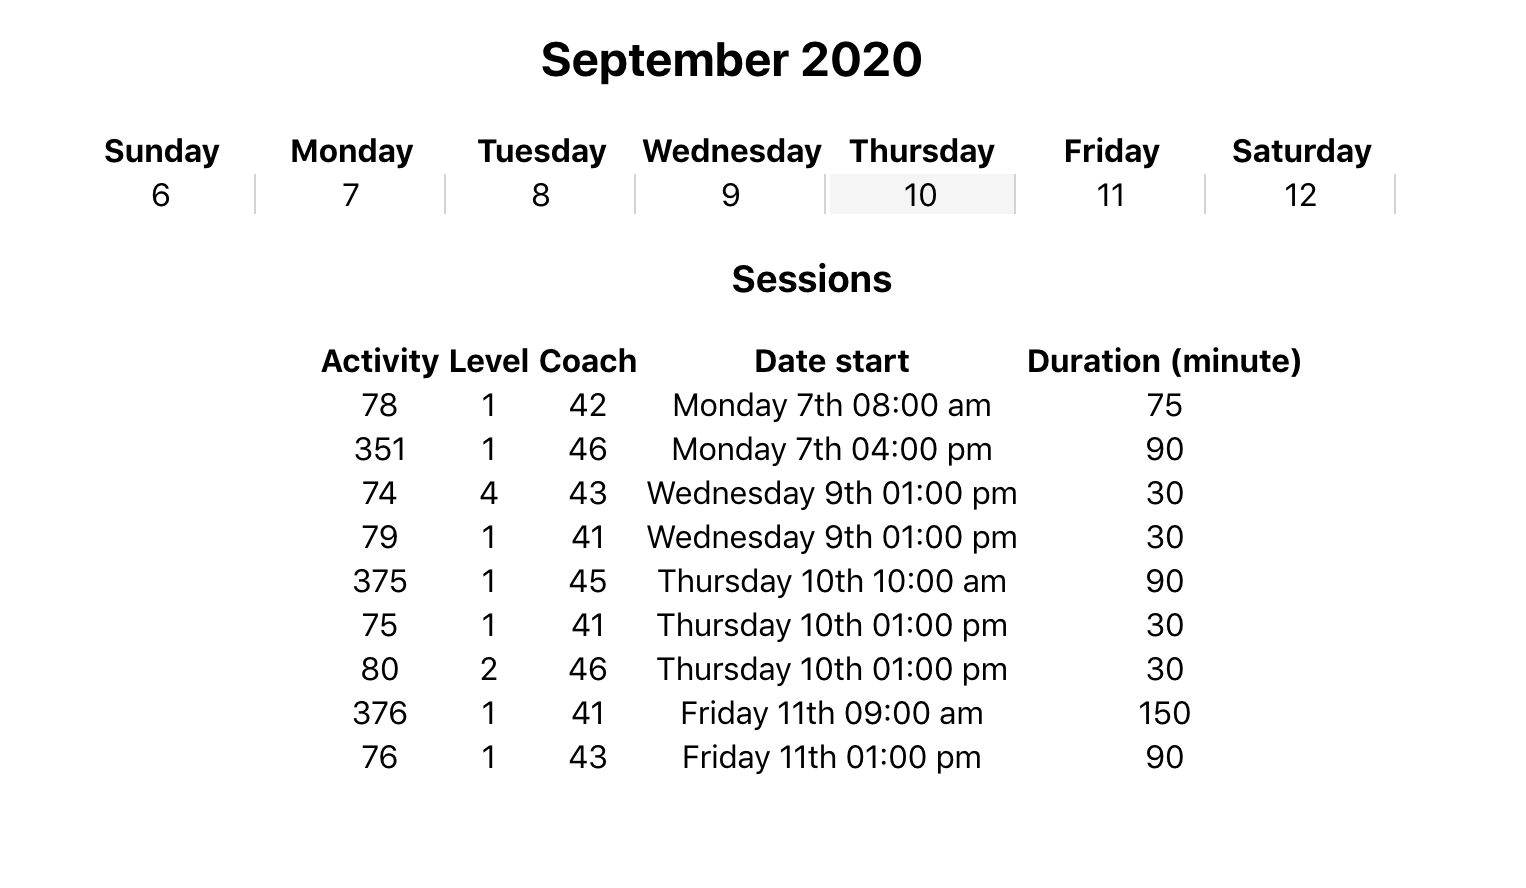
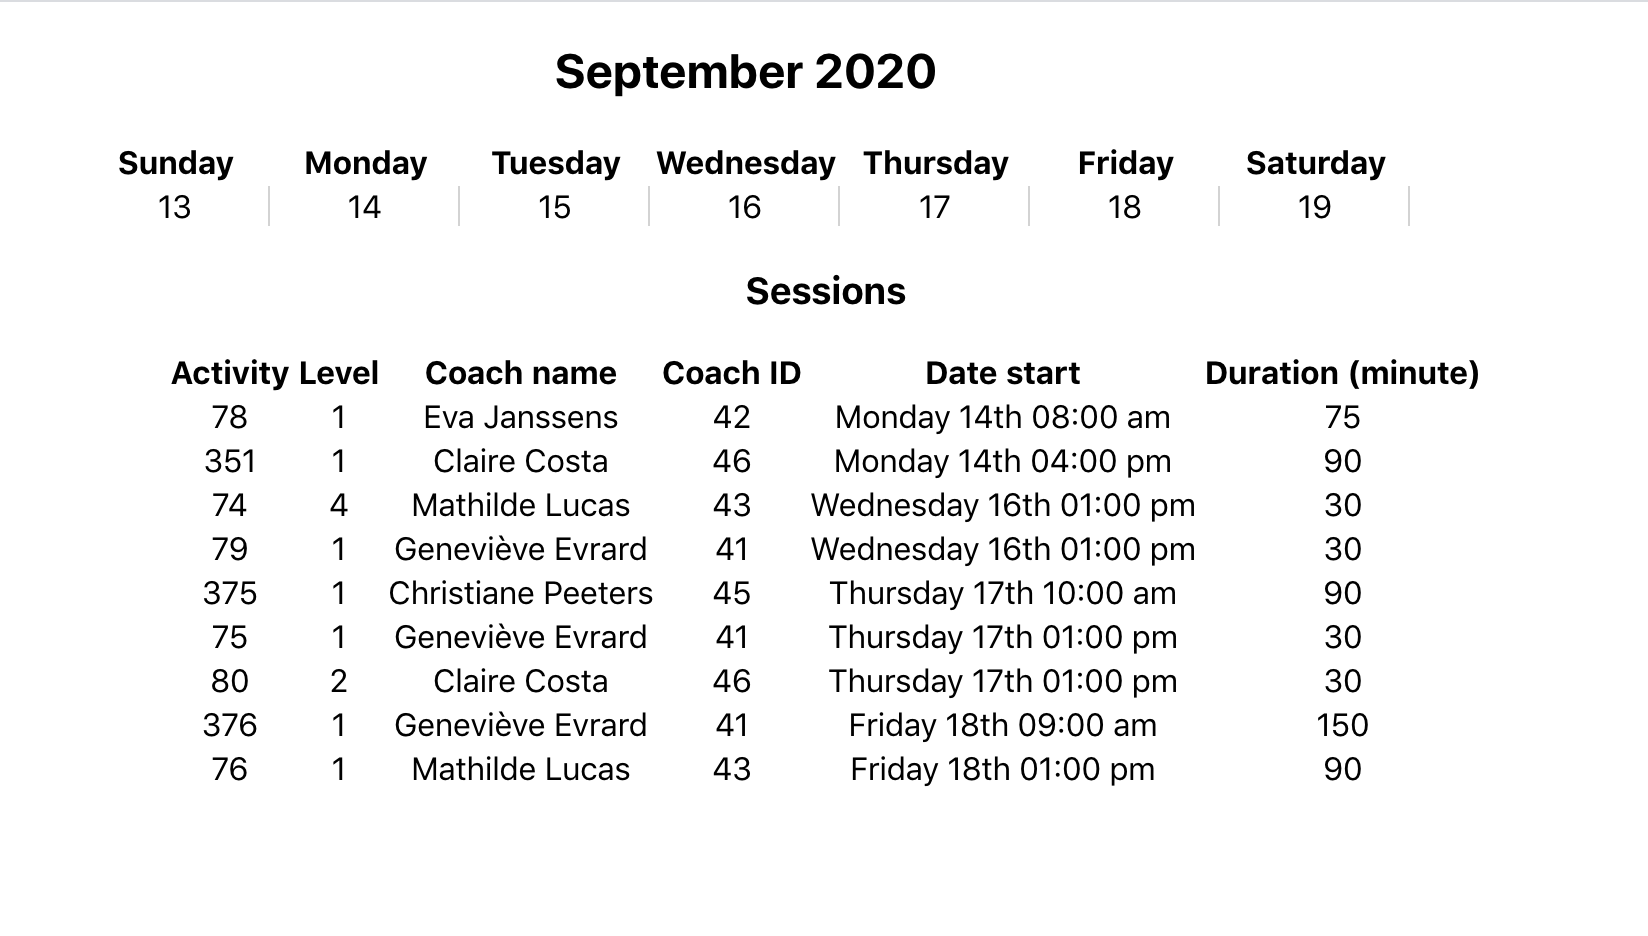
add fetching coach name

diff --git a/src/App.js b/src/App.js
@@ -1,12 +1,191 @@
-import React from 'react';
+import React, {useState, useEffect} from 'react';
 import './App.css';
-import CompanyCalender from "./weekCalendar";
+import moment from "moment";
 
 function App() {
+  const currentDate = moment();
+  const weekStart = currentDate.clone().startOf('week');
+  const weekEnd = currentDate.clone().endOf('week');
+  const minDate = weekStart.format("YYYY-MM-DD")
+  const maxDate = weekEnd.format("YYYY-MM-DD")
 
   return (
     <div className="App">
-      <CompanyCalender/>
+      <Calendar 
+      currentDate = {currentDate}
+      weekStart = {weekStart}
+      weekEnd = {weekEnd}
+      url = {{offer: `https://back.staging.bsport.io/api/v1/offer/?min_date=${minDate}&max_date=${maxDate}&company=6`,
+      coach: "https://back.staging.bsport.io/api/v1/coach/?id__in=",
+      }}
+      />  
+    </div>
+  );
+}
+
+
+
+function Fetcher(url){ 
+  const [error, setError] = useState(null);
+  const [isLoaded, setIsLoaded] = useState(false);
+  const [offers, setOffers] = useState([]);
+  const [coachs, setCoachs] = useState([]);
+
+  useEffect(() => {
+    fetch(url.offer)
+    .then(response => {
+      if (response.ok) {
+        return response.json();
+      } else {
+        throw new Error('Something went wrong ...')
+      }
+    })
+    .then(data => {
+      setOffers(data.results);
+      setIsLoaded(true);
+      const coachId = [...new Set(data.results.map(x => x.coach))];
+      return fetch(url.coach + coachId);
+    })
+    .then(response => {
+      if (response.ok) {
+        return response.json();
+      } else {
+        throw new Error('Something went wrong ...')
+      }
+    })
+    .then(data => {
+      setCoachs(data.results);
+      setIsLoaded(true);
+    })
+    .catch(error => {
+      setError([error]);
+      setIsLoaded(true);
+    })
+  }, []);
+  
+  return ({offers, coachs, error, isLoaded});
+}
+
+const Header = (props) => {
+  return (
+     <div className="week-header">
+          <h2 onClick={() => {props.onChange(null)}}>
+            {props.currentDate.format("MMMM YYYY")}
+          </h2>
+     </div>
+     );
+}
+
+const daysOfWeek = () => {  
+  const days = [0, 1, 2, 3, 4, 5, 6];
+  return (<tr>
+    {days.map(day => <th>{moment.weekdays(day)}</th>)}
+    </tr>
+    );
+}
+
+const Cells = (props) => {
+  const dates = [];
+  let day = props.weekStart;
+  let formattedDate = "";
+  for (let i = 0; i < 7; i++) {
+      formattedDate = moment(day).format("D");
+      const cloneDay = day;
+      let selectedClass = `column cell ${(moment(props.selectedDate).isSame(cloneDay) ? " selected-day " : "")}`;
+      dates.push(
+          <td
+          className={selectedClass}
+          key={day}
+          onClick={() => {props.onChange(cloneDay)}} >
+              <span>{formattedDate}</span>
+          </td>
+      );
+      day = moment(day).add(1, 'day');
+  }
+  return <tr className="body">{dates}</tr>;
+}
+
+
+const ShowSessions = (props) => {
+  return (
+    <div>
+      <ul key={props.selectedDate}>
+        <li><h3>Sessions</h3></li>
+          <table class="center">
+          <thead>
+              <tr>
+                <th>Activity</th>
+                <th>Level</th>
+                <th>Coach name</th>
+                <th>Coach ID</th>
+                <th>Date start</th>
+                <th>Duration (minute)</th>
+              </tr>
+          </thead>
+          <tbody>
+          {props.offer_coach.map(offer => (
+            <tr>
+              <td>{offer.activity}</td>
+              <td>{offer.level}</td>
+              <td>{offer.name}</td>
+              <td>{offer.coach}</td>
+              <td>{moment(offer.date_start).format("dddd Do hh:mm a")}</td>
+              <td>{offer.duration_minute}</td>
+            </tr>
+          ))}
+          </tbody>
+          </table>
+      </ul>
+  </div> 
+  );
+}
+
+const Sessions = (props) => {
+  let {offers, coachs, error, isLoaded} = Fetcher(props.url);
+  if (!offers) {
+    return (<p>No offer yet ...</p>);
+  }
+  if (error) {
+    return (<p>Error in load offers: {error.message}</p>);
+  } 
+  if (!isLoaded) {
+      return (<p>Loading ...</p>);
+  }
+  const filteredOffers = offers.filter(a => moment(a.date_start).diff(props.weekStart,'days')>0 
+    && moment(a.date_start).diff(props.weekEnd,'days')<0);
+  const filteredCoachs = [];
+  coachs.map(item => filteredCoachs.push({id: item.id, name: item.user.name}));
+
+  const offer_coach = filteredOffers.map(x => Object.assign({}, x, filteredCoachs.find(y => y.id === x.coach)));
+  let filteredOfferCoach = offer_coach;
+  if (props.selectedDate!=null) {
+    filteredOfferCoach = offer_coach.filter(a => moment(a.date_start).isSame(props.selectedDate,'days'));
+  }
+
+  return <ShowSessions offer_coach={filteredOfferCoach}/>;
+}
+
+
+const Calendar = (props) => {
+  const [selectedDate, setSelectedDate] = useState(null);
+  const onDayClick = (day) => {
+    setSelectedDate(day);
+  }
+
+  return (
+    <div className="calendar">
+        <div><Header {...props} onChange={onDayClick.bind(this)}/></div> 
+        <table class="center">
+            <thead>
+                {daysOfWeek()}
+            </thead>
+            <tbody>
+              <Cells {...props} 
+              selectedDate={selectedDate}
+              onChange={onDayClick.bind(this)}/>
+            </tbody>
+        </table>       
+        <ul><Sessions {...props} selectedDate={selectedDate}/></ul>     
     </div>
   );
 }

diff --git a/README.md b/README.md
@@ -1,6 +1,8 @@
 # A calendar using REACTJS
 
-The project build a simple calendar shows the activities of a company in the current week. The data are fetched from a true [API](https://back.staging.bsport.io/api/v1/swagger/). By selecting a day on the calendar we can filter the activities in the day.
+The project build a simple calendar shows the offers of a company in the current week. The offers are fetched from a true [API](https://back.staging.bsport.io/api/v1/swagger/). By selecting a day on the calendar we can filter the offers in the day.
+
+The information of a coach are also fetched from the API for only the coach ID appearing in the offers during the week. The offers list displays the name of coach.
 
 <img src="./public/Calendar_Screenshot.png" alt="Calendar" title="A calendar example" width="410" height="250"/>
 
